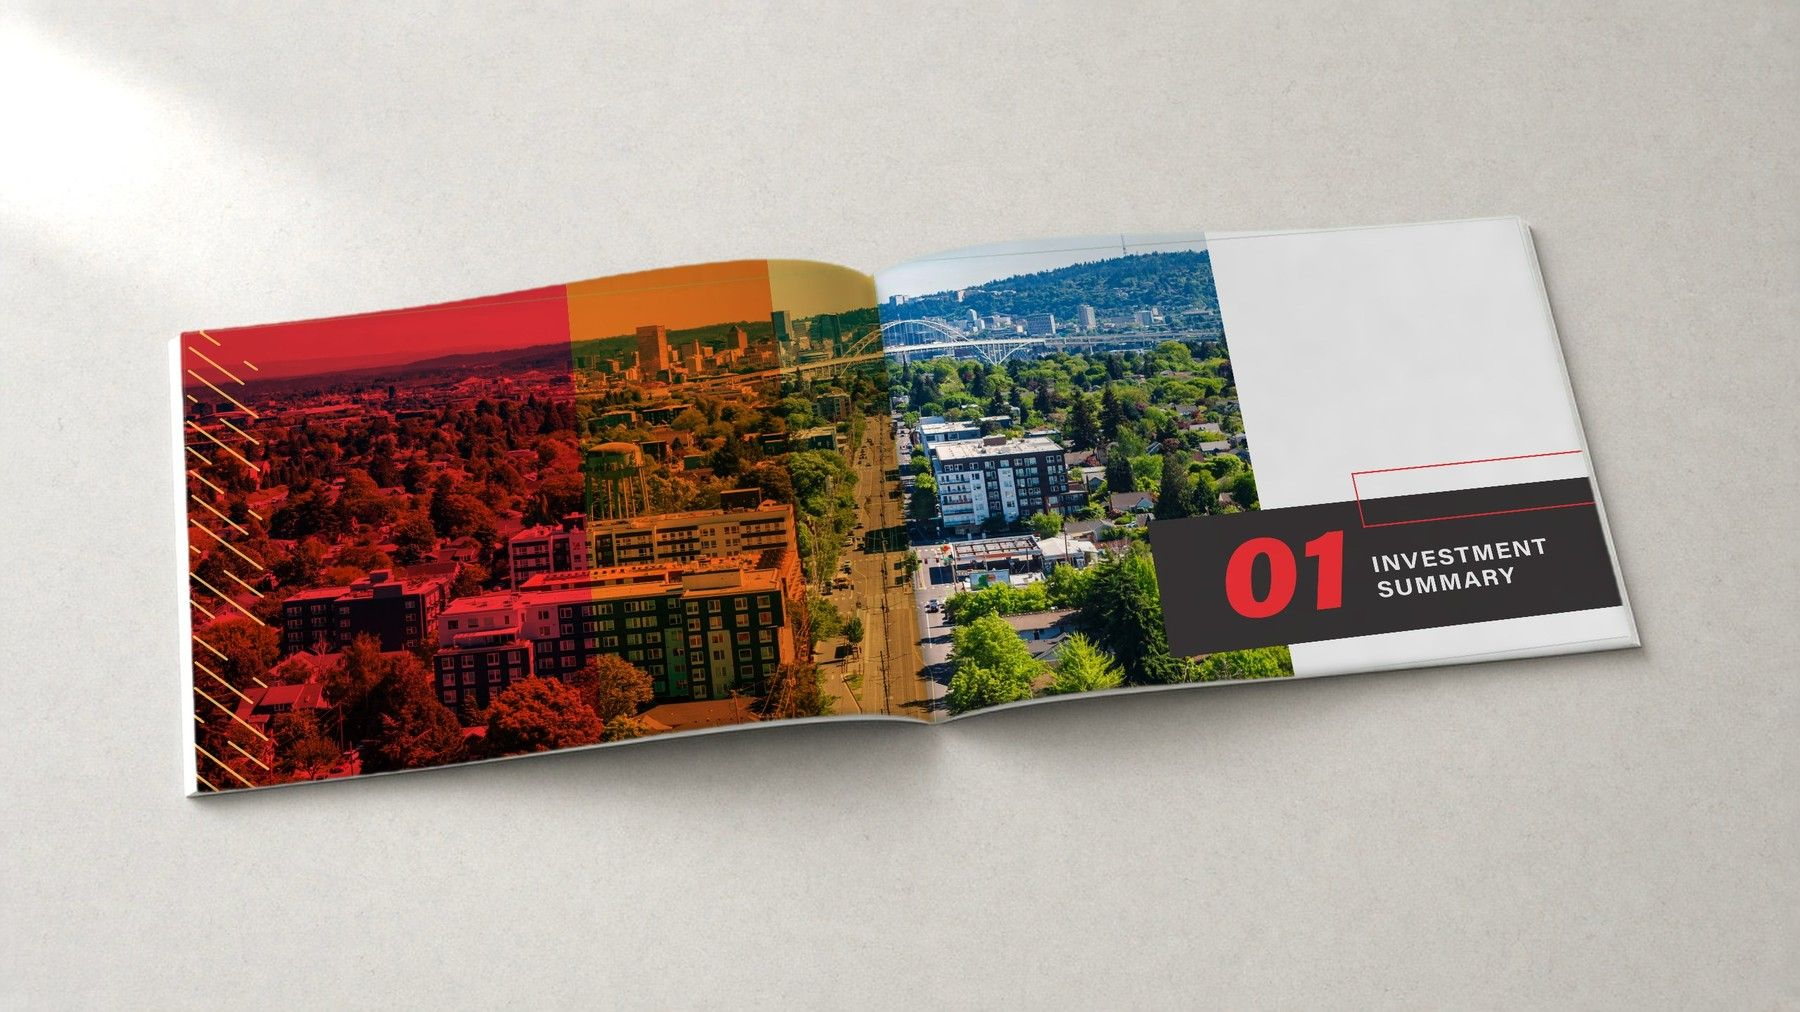
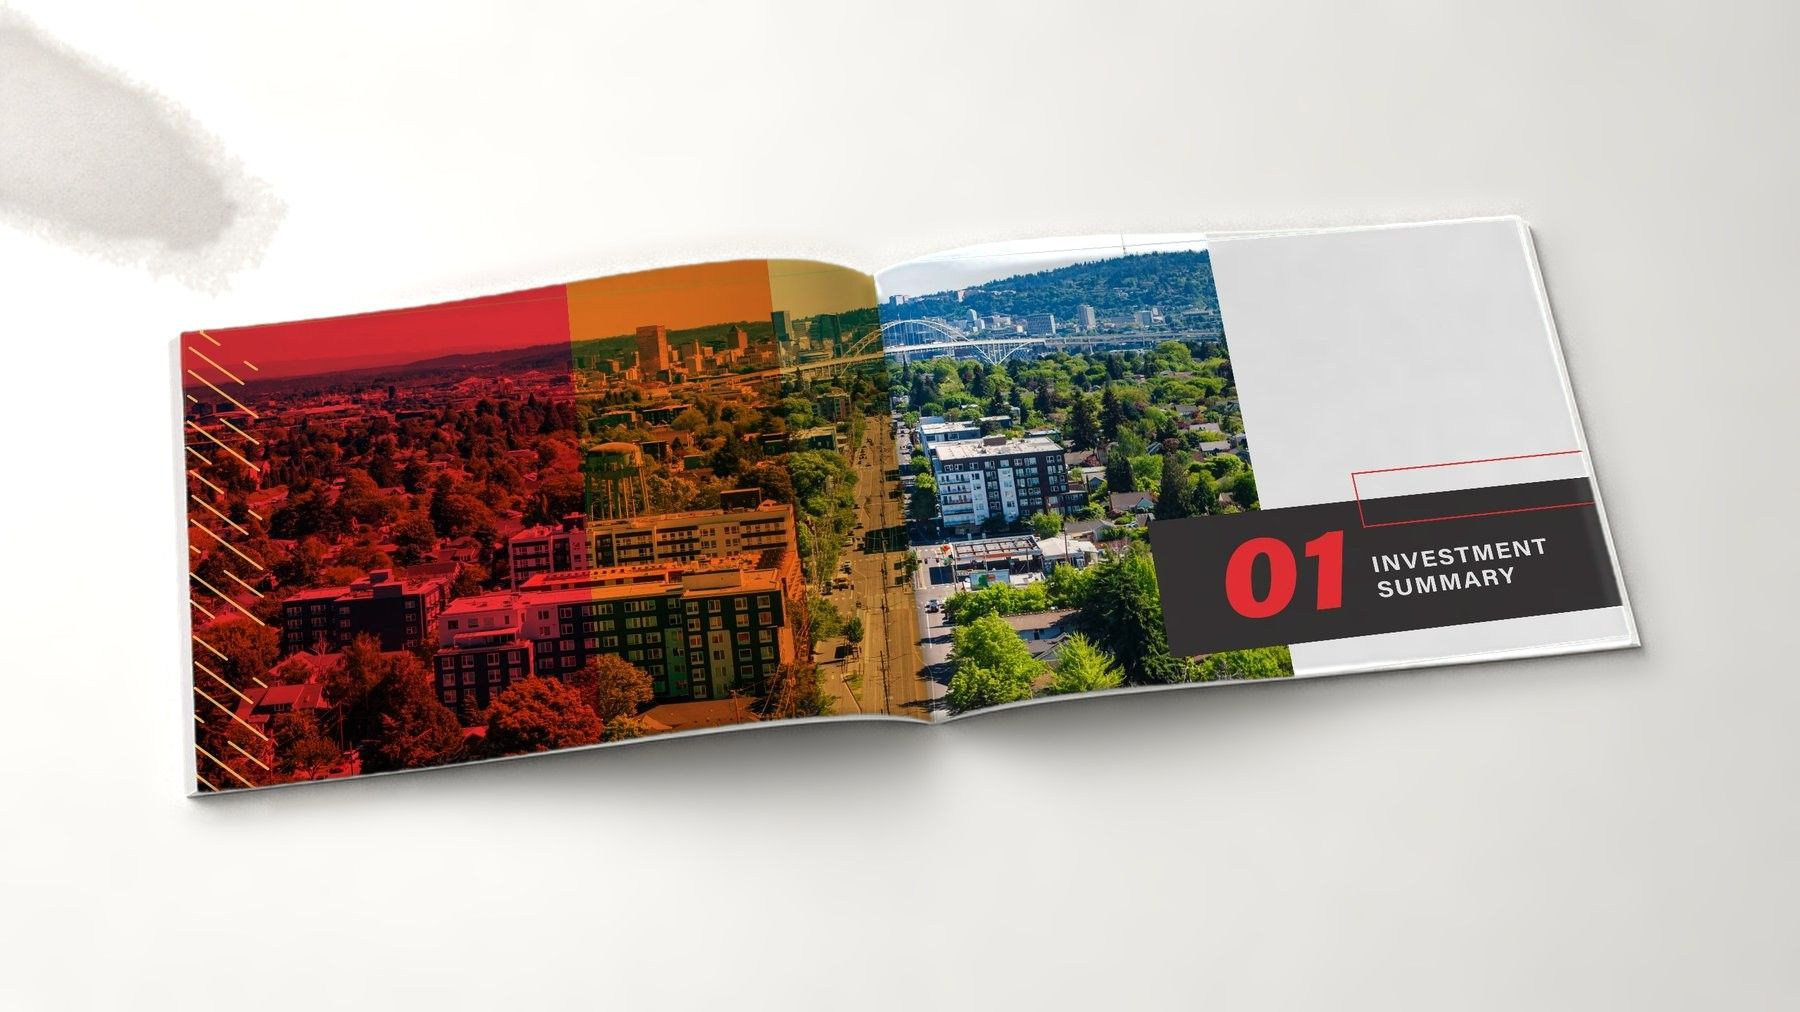
Pale stone #ECEAE6 replaces the cream site-wide: no paper texture, neutral vignette/shadows; mockups rebuilt from source

diff --git a/assets/css/site.css b/assets/css/site.css
@@ -221,12 +221,12 @@ button{font:inherit;color:inherit}
 .g-row.g-inset{padding:3.992% 0 5.988%}
 @media (max-width:640px){.g-row.g-inset{padding:0}}
 .fb-wrap.tall{max-width:1000px}
-/* iPad viewer (digital brochures) — CSS-drawn iPad Pro on the shared cream #D2CEC8; JS in site.js */
-.tab-stage{position:relative;background-color:#D2CEC8;background-image:radial-gradient(120% 95% at 45% 30%,rgba(255,255,255,.16) 0%,rgba(255,255,255,0) 55%,rgba(60,50,40,.10) 100%),url("../img/ui/cream-surface.jpg");background-size:100% 100%,cover;background-position:center;padding:clamp(32px,6.4vw,92px) clamp(12px,5.6vw,80px) 0;color:#0F0F0F}
+/* iPad viewer (digital brochures) — CSS-drawn iPad Pro on the shared stone #ECEAE6 (no paper texture; neutral vignette + shadows — Nov 23 PM); JS in site.js */
+.tab-stage{position:relative;background-color:#ECEAE6;background-image:radial-gradient(120% 95% at 45% 30%,rgba(255,255,255,.22) 0%,rgba(255,255,255,0) 55%,rgba(0,0,0,.045) 100%);background-size:100% 100%;background-position:center;padding:clamp(32px,6.4vw,92px) clamp(12px,5.6vw,80px) 0;color:#0F0F0F}
 .tab-wrap{position:relative;max-width:1040px;margin:0 auto;container-type:inline-size}
-.tab-wrap::after{content:"";position:absolute;left:7%;right:7%;bottom:-2.4cqw;height:4.2cqw;border-radius:50%;background:radial-gradient(closest-side,rgba(40,32,24,.42),rgba(40,32,24,0));filter:blur(1.2cqw);pointer-events:none;z-index:0}
+.tab-wrap::after{content:"";position:absolute;left:7%;right:7%;bottom:-2.4cqw;height:4.2cqw;border-radius:50%;background:radial-gradient(closest-side,rgba(18,18,20,.42),rgba(18,18,20,0));filter:blur(1.2cqw);pointer-events:none;z-index:0}
 .tab{position:relative;z-index:1;border-radius:5.4cqw;padding:.3cqw;background:linear-gradient(160deg,#B9B9BE 0%,#6E6E74 22%,#9C9CA2 50%,#5C5C61 78%,#A9A9AF 100%);
-  box-shadow:0 .25cqw .5cqw rgba(20,16,12,.28),0 1.6cqw 3.2cqw -1cqw rgba(20,16,12,.40),0 4.4cqw 7cqw -3.4cqw rgba(30,24,18,.45)}
+  box-shadow:0 .25cqw .5cqw rgba(16,16,18,.28),0 1.6cqw 3.2cqw -1cqw rgba(16,16,18,.40),0 4.4cqw 7cqw -3.4cqw rgba(20,20,22,.45)}
 .tab-glass{position:relative;border-radius:5.1cqw;background:#0A0A0B;padding:2.75cqw;box-shadow:inset 0 0 0 .08cqw rgba(255,255,255,.08),inset 0 .12cqw .2cqw rgba(255,255,255,.06)}
 .tab-cam{position:absolute;top:1.25cqw;left:50%;width:.62cqw;height:.62cqw;margin-left:-.31cqw;border-radius:50%;background:radial-gradient(circle at 38% 35%,#3A4250 0%,#15181D 45%,#050506 75%);box-shadow:0 0 0 .1cqw #161618}
 .tab-screen{position:relative;aspect-ratio:4/3;border-radius:2.4cqw;overflow:hidden;background:#000;touch-action:pan-y;cursor:grab;outline:none;-webkit-tap-highlight-color:transparent;isolation:isolate}
@@ -250,8 +250,8 @@ button{font:inherit;color:inherit}
 .tab-dots i{width:6px;height:6px;border-radius:50%;background:rgba(15,15,15,.22);transition:background .3s,transform .3s}
 .tab-dots i.on{background:#0F0F0F;transform:scale(1.15)}
 .tab-foot{display:flex;justify-content:center;text-align:center;margin-top:clamp(24px,3vw,40px);padding:18px 0 22px;border-top:1px solid rgba(15,15,15,.14)}
-.tab-hint{color:#55524E}.tab-hint .hm{display:none}
-.tab-note{text-align:center;color:#55524E;margin:0;padding:0 0 22px;max-width:none}
+.tab-hint{color:#5E5F62}.tab-hint .hm{display:none}
+.tab-note{text-align:center;color:#5E5F62;margin:0;padding:0 0 22px;max-width:none}
 @media (max-width:700px){.tab-hint .hd{display:none}.tab-hint .hm{display:inline}.tab-stage{margin:0 calc(-1 * var(--m));padding-left:14px;padding-right:14px}}
 .tab-conf{background:#0A0A0A;color:#F2F2F2}
 .tab-confin{width:100%;height:100%;display:flex;flex-direction:column;align-items:center;justify-content:center;gap:2.2cqw;text-align:center;padding:0 8%;box-shadow:inset 0 0 0 1px rgba(255,255,255,.12)}
@@ -322,13 +322,13 @@ button{font:inherit;color:inherit}
 .lap .tab-glass{border-radius:2.2cqw 2.2cqw .3cqw .3cqw;padding:2.2cqw 2cqw 2.7cqw;background:#060607}
 .lap .tab-cam{top:.85cqw;width:.5cqw;height:.5cqw;margin-left:-.25cqw}
 .lap .tab-screen{aspect-ratio:16/9;border-radius:.2cqw}
-.lap-base{position:relative;z-index:1;height:2.2cqw;margin:0 -8.5%;border-radius:.25cqw .25cqw 50% 50% / .25cqw .25cqw 100% 100%;background:linear-gradient(180deg,#f1f1f3 0%,#d9dadd 30%,#b8babe 72%,#8e9095 100%);box-shadow:0 .1cqw 0 rgba(255,255,255,.6) inset,0 1.4cqw 2.2cqw -1.2cqw rgba(30,24,18,.55)}
+.lap-base{position:relative;z-index:1;height:2.2cqw;margin:0 -8.5%;border-radius:.25cqw .25cqw 50% 50% / .25cqw .25cqw 100% 100%;background:linear-gradient(180deg,#f1f1f3 0%,#d9dadd 30%,#b8babe 72%,#8e9095 100%);box-shadow:0 .1cqw 0 rgba(255,255,255,.6) inset,0 1.4cqw 2.2cqw -1.2cqw rgba(20,20,22,.55)}
 .lap-base i{position:absolute;left:50%;top:0;width:15%;height:.85cqw;transform:translateX(-50%);border-radius:0 0 1.1cqw 1.1cqw;background:linear-gradient(180deg,#a9abaf,#cfd0d3)}
 .tab-wrap.lap::after{left:-4%;right:-4%;bottom:-1.8cqw}
 /* ---- Big Pink case (proposal) ---- */
 @font-face{font-family:'Cabin';font-weight:400 700;font-display:swap;src:url(../fonts/Cabin-Var.woff2) format('woff2')}
 .bp-wm{height:78%;width:auto;display:block}
-.bp-mean{font:400 13px/1.35 Geist,sans-serif;color:#55524E}
+.bp-mean{font:400 13px/1.35 Geist,sans-serif;color:#5E5F62}
 .bp-type{font-family:'Cabin',sans-serif;color:#282334}
 .bp-type .gr-aa{color:#C67484;font-weight:700}
 .bp-type .b{font-weight:700;letter-spacing:.14em;font-size:clamp(18px,2vw,30px)}

diff --git a/_src/bigpink/laptop-render.html b/_src/bigpink/laptop-render.html
@@ -1,6 +1,6 @@
 <!doctype html><html><head><meta charset="utf-8"><link rel="stylesheet" href="../../assets/css/site.css">
-<style>body{margin:0;background:#D2CEC8}
-.st{position:relative;display:flex;align-items:center;justify-content:center;background-color:#D2CEC8;background-image:radial-gradient(120% 95% at 45% 30%,rgba(255,255,255,.16) 0%,rgba(255,255,255,0) 55%,rgba(60,50,40,.10) 100%),url("../../assets/img/ui/cream-surface.jpg");background-size:100% 100%,cover;overflow:hidden}
+<style>body{margin:0;background:#ECEAE6}
+.st{position:relative;display:flex;align-items:center;justify-content:center;background-color:#ECEAE6;background-image:radial-gradient(120% 95% at 45% 30%,rgba(255,255,255,.22) 0%,rgba(255,255,255,0) 55%,rgba(0,0,0,.045) 100%);background-size:100% 100%;overflow:hidden}
 .st .tab-wrap.lap{width:var(--lw);max-width:none}
 .st .tab-page img{object-fit:cover}</style></head>
 <body><div class="st" id="st"><div class="tab-wrap lap"><div class="tab"><div class="tab-glass"><span class="tab-cam"></span><div class="tab-screen"><div class="tab-track"><figure class="tab-page cur"><img id="im" src=""></figure></div></div></div></div><div class="lap-base"><i></i></div></div></div>

diff --git a/work/aafayaa.html b/work/aafayaa.html
@@ -6,7 +6,7 @@
 <meta name="description" content="AAFAYAA, founded by two entrepreneurs of African descent, was looking for a strategy and identity for their clothing line to empower women of the African diaspora to reconnect with their heritage through stylish, high-quality clothing.">
 <link rel="preload" href="../assets/fonts/Geist-Medium.woff2" as="font" type="font/woff2" crossorigin>
 <link rel="icon" href="../assets/favicon.svg" type="image/svg+xml">
-<link rel="stylesheet" href="../assets/css/site.css?v=1dc05e42">
+<link rel="stylesheet" href="../assets/css/site.css?v=76e4504b">
 </head><body>
 <a class="skip" href="#main">Skip to content</a>
 <header class="nav" data-name="Nav"><a class="brand" href="../index.html"><b>Lauren Gonzalez</b><span class="mono-s muted">Senior Graphic Designer</span></a>

diff --git a/work/abundant-earth.html b/work/abundant-earth.html
@@ -6,7 +6,7 @@
 <meta name="description" content="A whole-food supplements company aimed to rebrand their packaging due to their existing designs feeling generic and attracting only price-focused shoppers rather than those seeking premium quality ingredients.">
 <link rel="preload" href="../assets/fonts/Geist-Medium.woff2" as="font" type="font/woff2" crossorigin>
 <link rel="icon" href="../assets/favicon.svg" type="image/svg+xml">
-<link rel="stylesheet" href="../assets/css/site.css?v=1dc05e42">
+<link rel="stylesheet" href="../assets/css/site.css?v=76e4504b">
 </head><body>
 <a class="skip" href="#main">Skip to content</a>
 <header class="nav" data-name="Nav"><a class="brand" href="../index.html"><b>Lauren Gonzalez</b><span class="mono-s muted">Senior Graphic Designer</span></a>

diff --git a/work/toksuite.html b/work/toksuite.html
@@ -6,7 +6,7 @@
 <meta name="description" content="An upcoming influencer marketing startup sought a compelling strategy and brand identity to appeal to both TikTok influencers and e-commerce beauty brands eager to leverage influencer marketing.">
 <link rel="preload" href="../assets/fonts/Geist-Medium.woff2" as="font" type="font/woff2" crossorigin>
 <link rel="icon" href="../assets/favicon.svg" type="image/svg+xml">
-<link rel="stylesheet" href="../assets/css/site.css?v=1dc05e42">
+<link rel="stylesheet" href="../assets/css/site.css?v=76e4504b">
 </head><body>
 <a class="skip" href="#main">Skip to content</a>
 <header class="nav" data-name="Nav"><a class="brand" href="../index.html"><b>Lauren Gonzalez</b><span class="mono-s muted">Senior Graphic Designer</span></a>

diff --git a/work/fortis-net-lease.html b/work/fortis-net-lease.html
@@ -6,7 +6,7 @@
 <meta name="description" content="Fortis Net Lease, a national real estate brokerage, needed stronger, more cohesive design assets to support their growth and reflect their position in a competitive, fast-changing market.">
 <link rel="preload" href="../assets/fonts/Geist-Medium.woff2" as="font" type="font/woff2" crossorigin>
 <link rel="icon" href="../assets/favicon.svg" type="image/svg+xml">
-<link rel="stylesheet" href="../assets/css/site.css?v=1dc05e42">
+<link rel="stylesheet" href="../assets/css/site.css?v=76e4504b">
 </head><body>
 <a class="skip" href="#main">Skip to content</a>
 <header class="nav" data-name="Nav"><a class="brand" href="../index.html"><b>Lauren Gonzalez</b><span class="mono-s muted">Senior Graphic Designer</span></a>

diff --git a/work/farm-bee.html b/work/farm-bee.html
@@ -6,7 +6,7 @@
 <meta name="description" content="A new e-commerce brand, focused on sustainable packaging, was looking to compete in the very competitive health and beauty space on Amazon needed a proper brand identity.">
 <link rel="preload" href="../assets/fonts/Geist-Medium.woff2" as="font" type="font/woff2" crossorigin>
 <link rel="icon" href="../assets/favicon.svg" type="image/svg+xml">
-<link rel="stylesheet" href="../assets/css/site.css?v=1dc05e42">
+<link rel="stylesheet" href="../assets/css/site.css?v=76e4504b">
 </head><body>
 <a class="skip" href="#main">Skip to content</a>
 <header class="nav" data-name="Nav"><a class="brand" href="../index.html"><b>Lauren Gonzalez</b><span class="mono-s muted">Senior Graphic Designer</span></a>

diff --git a/work/marketplace.html b/work/marketplace.html
@@ -6,7 +6,7 @@
 <meta name="description" content="Placeholder: A click-through Ceros pitch presentation for Marketplace I &amp; II — introductions, market overview, competition, case studies and approach.">
 <link rel="preload" href="../assets/fonts/Geist-Medium.woff2" as="font" type="font/woff2" crossorigin>
 <link rel="icon" href="../assets/favicon.svg" type="image/svg+xml">
-<link rel="stylesheet" href="../assets/css/site.css?v=1dc05e42">
+<link rel="stylesheet" href="../assets/css/site.css?v=76e4504b">
 </head><body>
 <a class="skip" href="#main">Skip to content</a>
 <header class="nav" data-name="Nav"><a class="brand" href="../index.html"><b>Lauren Gonzalez</b><span class="mono-s muted">Senior Graphic Designer</span></a>

diff --git a/work/nomad.html b/work/nomad.html
@@ -6,7 +6,7 @@
 <meta name="description" content="An investor offering package that sells a North Portland apartment community through bold colour, editorial photography and clear market storytelling.">
 <link rel="preload" href="../assets/fonts/Geist-Medium.woff2" as="font" type="font/woff2" crossorigin>
 <link rel="icon" href="../assets/favicon.svg" type="image/svg+xml">
-<link rel="stylesheet" href="../assets/css/site.css?v=1dc05e42">
+<link rel="stylesheet" href="../assets/css/site.css?v=76e4504b">
 </head><body>
 <a class="skip" href="#main">Skip to content</a>
 <header class="nav" data-name="Nav"><a class="brand" href="../index.html"><b>Lauren Gonzalez</b><span class="mono-s muted">Senior Graphic Designer</span></a>

diff --git a/work/wild-naturals.html b/work/wild-naturals.html
@@ -6,7 +6,7 @@
 <meta name="description" content="A natural skincare brand was struggling with their sales leveling out and wanted to have a brand refresh to connect with their target audience.">
 <link rel="preload" href="../assets/fonts/Geist-Medium.woff2" as="font" type="font/woff2" crossorigin>
 <link rel="icon" href="../assets/favicon.svg" type="image/svg+xml">
-<link rel="stylesheet" href="../assets/css/site.css?v=1dc05e42">
+<link rel="stylesheet" href="../assets/css/site.css?v=76e4504b">
 </head><body>
 <a class="skip" href="#main">Skip to content</a>
 <header class="nav" data-name="Nav"><a class="brand" href="../index.html"><b>Lauren Gonzalez</b><span class="mono-s muted">Senior Graphic Designer</span></a>

diff --git a/work/cgk.html b/work/cgk.html
@@ -6,7 +6,7 @@
 <meta name="description" content="CGK, a growing home and apparel brand, needed a design strategy to elevate its seasonal, children&#x27;s, and year-round product lines.">
 <link rel="preload" href="../assets/fonts/Geist-Medium.woff2" as="font" type="font/woff2" crossorigin>
 <link rel="icon" href="../assets/favicon.svg" type="image/svg+xml">
-<link rel="stylesheet" href="../assets/css/site.css?v=1dc05e42">
+<link rel="stylesheet" href="../assets/css/site.css?v=76e4504b">
 </head><body>
 <a class="skip" href="#main">Skip to content</a>
 <header class="nav" data-name="Nav"><a class="brand" href="../index.html"><b>Lauren Gonzalez</b><span class="mono-s muted">Senior Graphic Designer</span></a>

diff --git a/work/zulay.html b/work/zulay.html
@@ -6,7 +6,7 @@
 <meta name="description" content="A kitchen brand came to me looking to have a brand refresh as they were scaling their product line and company.">
 <link rel="preload" href="../assets/fonts/Geist-Medium.woff2" as="font" type="font/woff2" crossorigin>
 <link rel="icon" href="../assets/favicon.svg" type="image/svg+xml">
-<link rel="stylesheet" href="../assets/css/site.css?v=1dc05e42">
+<link rel="stylesheet" href="../assets/css/site.css?v=76e4504b">
 </head><body>
 <a class="skip" href="#main">Skip to content</a>
 <header class="nav" data-name="Nav"><a class="brand" href="../index.html"><b>Lauren Gonzalez</b><span class="mono-s muted">Senior Graphic Designer</span></a>
